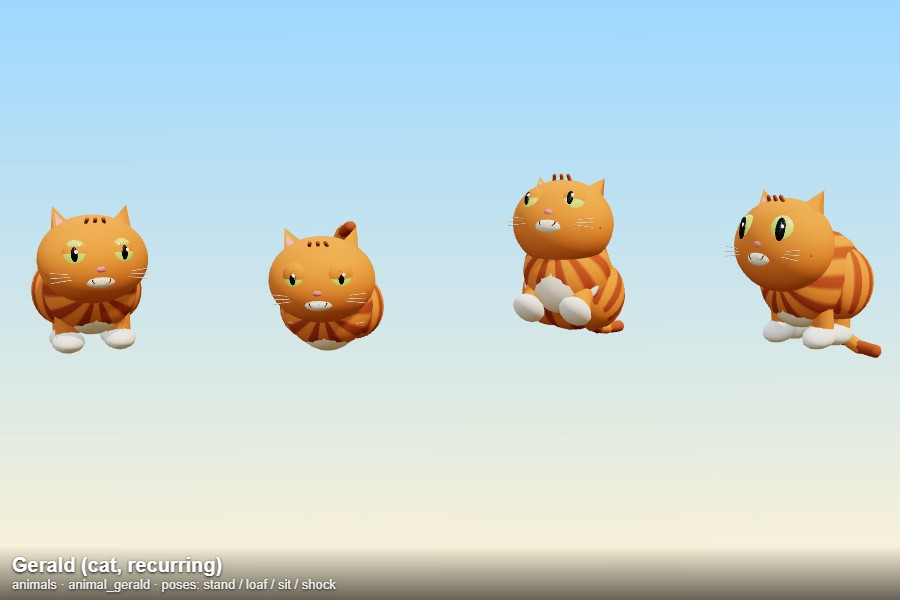
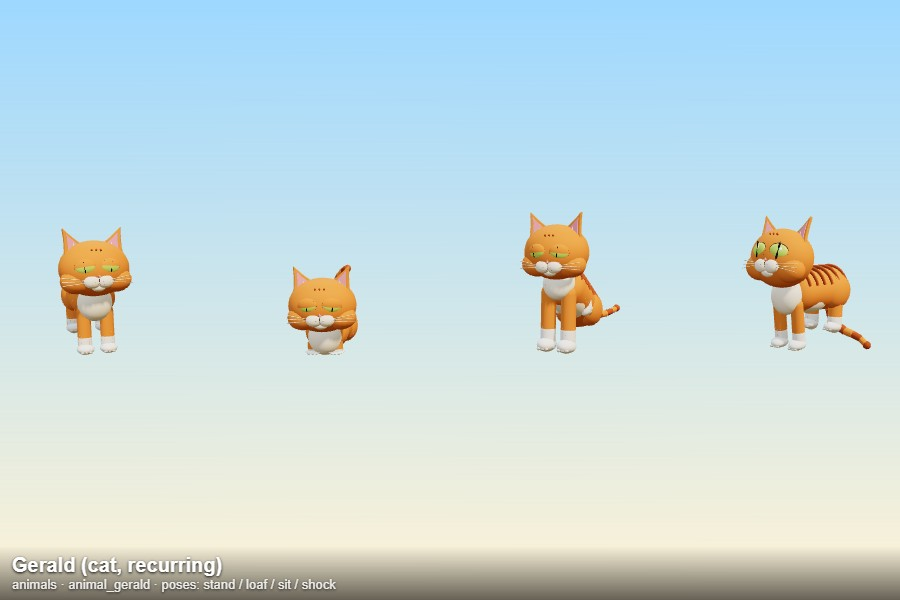
Gerald v2 model, S4 lab without the bakery, S2 recut, land-only pink map, story outline

diff --git a/series-animation-guide/assets/library/cat.js b/series-animation-guide/assets/library/cat.js
@@ -1,0 +1,116 @@
+// Gerald v2: a properly built cartoon cat (no textures; tabby stripes are geometry). Used by makeAnimal('cat', ...).
+// Same API as the other animals: root, pose(APOSES.*), face({lid, look, pupil}), head, tail, eyes. Faces +Z, auto-grounded.
+// Rig: hips (pitch for sitting) -> torso along +Z -> chest (front legs, neck -> head); back legs at the hips; tail chain.
+import * as THREE from 'three';
+import { mat, add, sph, cyl, cap, cone, tor } from './util.js';
+import { AJ, APOSES, plantA, applyAFace } from './animal.js';
+
+const tri = (w, h, d) => {
+  const sh = new THREE.Shape(); sh.moveTo(-w / 2, 0); sh.lineTo(w / 2, 0); sh.quadraticCurveTo(w * 0.12, h * 0.6, 0, h); sh.quadraticCurveTo(-w * 0.12, h * 0.6, -w / 2, 0);
+  return new THREE.ExtrudeGeometry(sh, { depth: d, bevelEnabled: true, bevelThickness: d * 0.4, bevelSize: d * 0.4, bevelSegments: 2 });
+};
+
+export function buildCat(o) {
+  const root = new THREE.Group(), pivot = new THREE.Group(); root.add(pivot);
+  const fur = mat(o.fur, { rough: 0.8 }), stripe = mat(o.stripe, { rough: 0.8 }), cream = mat(o.belly, { rough: 0.8 }), sock = mat(0xfff8ee, { rough: 0.8 });
+  const pink = mat(0xf29aa8, { rough: 0.6 }), dark = mat(0x3a1e14, { rough: 0.5 });
+  const L = 0.42, LEG = 0.19, HIPY = LEG + 0.07;
+  const hips = new THREE.Group(); hips.position.set(0, HIPY, -L / 2); pivot.add(hips);
+  // torso: smooth lathe profile laid along +Z (round rump, waist, deep chest)
+  const prof = [[0, -0.02], [0.1, 0.0], [0.135, 0.06], [0.13, 0.2], [0.125, 0.3], [0.13, 0.4], [0.1, 0.47], [0, 0.5]].map(([r, y]) => new THREE.Vector2(r, y));
+  add(hips, new THREE.LatheGeometry(prof, 28), fur, [0, 0, -0.04], [Math.PI / 2, 0, 0], [1, 1, 0.92]);
+  add(hips, sph(0.115, 18, 12), cream, [0, -0.045, 0.24], [0, 0, 0], [0.95, 0.75, 1.7]);                                // belly
+  for (const s of [-1, 1]) add(hips, sph(0.105, 18, 14), fur, [s * 0.075, -0.01, 0.06], [0, 0, 0], [0.75, 1.0, 1.15]);  // haunches
+  // tabby stripes: arcs over the back and down the flanks, and on the haunches
+  for (let i = 0; i < 6; i++) add(hips, tor(0.131, 0.011, 6, 24, Math.PI * 0.82), stripe, [0, 0, 0.02 + i * 0.075], [0, 0, Math.PI * 0.09], [1, 0.97, 0.6]).castShadow = false;
+  for (const s of [-1, 1]) for (let k = 0; k < 2; k++) add(hips, tor(0.1, 0.01, 6, 16, Math.PI * 0.5), stripe, [s * 0.04, 0.02, 0.03 + k * 0.06], [0, s * Math.PI / 2, -Math.PI * 0.05], [1, 1, 0.6]).castShadow = false;
+  // chest with white bib
+  const chest = new THREE.Group(); chest.position.set(0, 0, L); hips.add(chest);
+  add(chest, sph(0.105, 18, 14), cream, [0, -0.02, 0.035], [0, 0, 0], [0.95, 1.05, 0.8]);
+  // legs: fur leg, white sock, round paw with toe bumps
+  const leg = (parent, x, z, len, front) => {
+    const g = new THREE.Group(); g.position.set(x, front ? -0.05 : -0.02, z); parent.add(g);
+    const inner = new THREE.Group(); g.add(inner);
+    add(inner, cap(front ? 0.04 : 0.045, len * 0.8, 4, 10), fur, [0, -len * 0.5, 0]);
+    add(inner, cap(front ? 0.041 : 0.046, len * 0.22, 4, 10), sock, [0, -len * 0.88, 0]);
+    add(inner, sph(0.05, 14, 10), sock, [0, -len - 0.005, 0.02], [0, 0, 0], [1, 0.62, 1.3]);
+    for (const s of [-1, 0, 1]) add(inner, sph(0.012, 6, 4), mat(0xe8d8c8), [s * 0.022, -len - 0.018, 0.075], [0, 0, 0], [1, 0.6, 0.6]);
+    g.userData = { inner, len, front }; return g;
+  };
+  const legs = [leg(chest, 0.065, 0.02, LEG + 0.05, true), leg(chest, -0.065, 0.02, LEG + 0.05, true), leg(hips, 0.085, 0.06, LEG, false), leg(hips, -0.085, 0.06, LEG, false)];
+  // head: wide, cheek puffs, muzzle pads, chin, pink triangle nose, w-mouth, whiskers, forehead "M"
+  const neck = new THREE.Group(); neck.position.set(0, 0.07, 0.05); chest.add(neck);
+  const head = new THREE.Group(); head.position.set(0, 0.12, 0.05); neck.add(head);
+  const R = 0.17;
+  add(head, sph(R, 32, 22), fur, [0, 0, 0], [0, 0, 0], [1.16, 0.96, 0.98]);
+  for (const s of [-1, 1]) add(head, sph(R * 0.55, 16, 12), fur, [s * R * 0.62, -R * 0.38, R * 0.32], [0, 0, 0], [1, 0.8, 0.85]);
+  for (const s of [-1, 1]) add(head, sph(R * 0.27, 14, 10), cream, [s * R * 0.2, -R * 0.38, R * 0.84], [0, 0, 0], [1.05, 0.85, 0.75]);
+  add(head, sph(R * 0.22, 12, 8), cream, [0, -R * 0.58, R * 0.72], [0, 0, 0], [1.1, 0.7, 0.8]);
+  add(head, cone(R * 0.11, R * 0.12, 3), pink, [0, -R * 0.2, R * 0.98], [Math.PI / 2 + 0.25, Math.PI, 0], [1.2, 1, 0.8]);
+  add(head, cap(R * 0.012, R * 0.08, 3, 6), dark, [0, -R * 0.33, R * 0.98]);
+  for (const s of [-1, 1]) add(head, tor(R * 0.1, R * 0.014, 5, 12, Math.PI), dark, [s * R * 0.1, -R * 0.4, R * 0.95], [0, 0, Math.PI]);
+  for (const s of [-1, 1]) for (let k = 0; k < 3; k++) add(head, cyl(0.0022, 0.0012, R * 1.1, 4), mat(0xfffaf0), [s * R * 0.62, -R * 0.36 + (k - 1) * R * 0.07, R * 0.86], [0, s * 0.35, Math.PI / 2 + s * (k - 1) * 0.12]);
+  for (let i = -1; i <= 1; i++) add(head, cap(R * 0.035, R * 0.22, 4, 8), stripe, [i * R * 0.17, R * 0.62, R * 0.62], [0.95, 0, i * 0.25]);
+  for (const s of [-1, 1]) for (let k = 0; k < 2; k++) add(head, cap(R * 0.03, R * 0.2, 4, 8), stripe, [s * R * 1.0, R * 0.05 - k * R * 0.17, R * 0.25], [0, s * 0.5, Math.PI / 2]);
+  // eyes: almond green with a dark rim, slit pupil, catchlight, heavy upper lid (his signature)
+  const eyes = [];
+  for (const s of [-1, 1]) {
+    const eg = new THREE.Group(); eg.position.set(s * R * 0.4, R * 0.12, R * 0.82); eg.rotation.set(0, s * 0.32, s * -0.12); head.add(eg);
+    const er = R * 0.27;
+    add(eg, sph(er, 22, 14), mat(o.iris, { rough: 0.25 }), [0, 0, 0], [0, 0, 0], [1.25, 0.9, 0.5]);
+    add(eg, tor(er, er * 0.08, 6, 24), dark, [0, 0, 0], [0, 0, 0], [1.25, 0.9, 1]);
+    const pg = new THREE.Group(); pg.position.z = er * 0.42; eg.add(pg);
+    const pupil = add(pg, cap(er * 0.16, er * 0.9, 4, 8), mat(0x0a0a0e, { rough: 0.2 }), [0, 0, 0], [0, 0, 0], [1, 1, 0.4]);
+    add(pg, sph(er * 0.16, 8, 6), mat(0xffffff, { emissive: 0xffffff, emissiveIntensity: 0.5 }), [er * 0.3, er * 0.3, er * 0.06], [0, 0, 0], [1, 1, 0.4]);
+    const lp = new THREE.Group(); eg.add(lp);
+    add(lp, sph(er * 1.08, 22, 10, 0, Math.PI * 2, 0, Math.PI / 2), fur, [0, 0, 0], [0, 0, 0], [1.25, 0.95, 0.62]).castShadow = false;
+    eyes.push({ eg, pg, pupil, lp, s });
+  }
+  // ears: flat rounded triangles with pink insides and a cream tuft
+  const ears = [];
+  for (const s of [-1, 1]) {
+    const e = new THREE.Group(); e.position.set(s * R * 0.62, R * 0.62, -R * 0.05); e.rotation.set(-0.15, s * -0.35, s * -0.28); head.add(e); ears.push(e);
+    add(e, tri(R * 0.75, R * 0.8, R * 0.06), fur);
+    add(e, tri(R * 0.48, R * 0.56, R * 0.03), pink, [0, R * 0.06, R * 0.07]);
+    add(e, cone(R * 0.05, R * 0.18, 5), cream, [s * -R * 0.05, R * 0.2, R * 0.1], [0.2, 0, s * 0.3]);
+  }
+  // tail: tapered chain with alternating stripe rings and a dark tip
+  const tail = [], tbase = new THREE.Group(); tbase.position.set(0, 0.04, -0.03); hips.add(tbase);
+  let parent = tbase;
+  for (let i = 0; i < 9; i++) {
+    const seg = new THREE.Group(); seg.position.z = i === 0 ? 0 : -0.058; parent.add(seg);
+    add(seg, cap(0.036 - i * 0.0022, 0.05, 4, 10), i % 2 ? stripe : fur, [0, 0, -0.03], [Math.PI / 2, 0, 0]);
+    tail.push(seg); parent = seg;
+  }
+  add(tail[8], sph(0.024, 10, 8), stripe, [0, 0, -0.06]);
+  const a = { root, pivot, body: hips, hips, chest, neck, head, legs, tail, eyes, ears, S: { headR: R }, kind: 'cat', opts: o, L, HIPY };
+  root.scale.setScalar(o.scale ?? 1);
+  a.pose = (p) => { applyCatPose(a, p); if (!p.air) plantA(a); };
+  a.face = (f) => applyAFace(a, f);
+  a.pose(APOSES.stand(0)); a.face({});
+  return a;
+}
+
+function applyCatPose(a, p) {
+  const j = { ...AJ, ...p };
+  a.pivot.rotation.set(0, j.yaw, j.roll);
+  a.pivot.scale.set(1 / Math.sqrt(j.squash), j.squash, 1 / Math.sqrt(j.squash));
+  const sit = Math.min(1, Math.max(0, -j.pitch) / 0.75), tuck = j.tuck;
+  const pitch = j.pitch * (j.pitch < 0 ? 0.72 : 1);       // a cat sits with its haunches on the floor: gentler tilt, hips dropped
+  a.hips.rotation.x = pitch; a.hips.position.y = a.HIPY - sit * 0.12;
+  a.neck.rotation.x = j.neckX - pitch * 0.6;              // keeps the head level-ish when sitting
+  a.head.rotation.set(j.hx, j.hy, j.hz);
+  a.legs.forEach((g, i) => {
+    const { inner, len, front } = g.userData, swing = [j.legFL, j.legFR, j.legBL, j.legBR][i];
+    if (front) {   // stay vertical while the body pitches up, stretch to reach the floor from the raised chest
+      g.rotation.x = -pitch + swing * (1 - sit);
+      inner.scale.set(1 + sit * 0.15, (1 + (Math.sin(-pitch) * a.L - sit * 0.12) / len) * (1 - tuck * 0.75), 1 + sit * 0.15);
+    } else {       // fold forward under the haunches when sitting, tuck away when loafing
+      g.rotation.x = swing * (1 - sit) - sit * 1.25; inner.scale.set(1, 1 - tuck * 0.75 - sit * 0.35, 1);
+    }
+  });
+  a.tail.forEach((s, i) => { s.rotation.x = (i === 0 ? -j.tailBase : 0) + (i > 0 ? j.tailCurl * 0.7 : 0); s.rotation.y = Math.sin(j.tailT * 3 - i * 0.6) * j.tailWave * (i === 0 ? 0.3 : 0.8); });
+  const tw = Math.max(0, Math.sin((j._t ?? 0) * 0.83 + 1.3) - 0.93) * 12;
+  a.ears.forEach((e, i) => { e.rotation.z = (i ? -0.28 : 0.28) + (i ? -1 : 1) * tw * 0.2; });
+  a._t = j._t ?? 0;
+}

diff --git a/series-animation-guide/episode-3/src/scenes/s4.js b/series-animation-guide/episode-3/src/scenes/s4.js
@@ -1,4 +1,4 @@
-// S4 — THE ENTIRE STATE (32–44.8): the state map glows pink, Gerald at the bakery, then the lab where the hero is the test subject on the Lovometer. 65,536 -> 4,194,304.
+// S4 — THE ENTIRE STATE (32–44.8): the state map glows pink, then the lab where the hero is the test subject on the Lovometer. 65,536 -> 4,194,304.
 import { THREE, makeCharacter, PRESETS, POSES, FACES, randomPerson, rng, clamp, smooth, lerp, easeOutBack, easeOutCubic, orbit, cam, shot, pick, regroup, pops, place, V, D2R } from '../common.js';
 import { makeStage } from '../../../assets/library/stage.js';
 import { reliefMap, car, schoolBus } from '../../../assets/library/props/world.js';
@@ -18,7 +18,7 @@ export default {
     const S = { stage, scene, g: {} };
     const grp = (k) => { const g = new THREE.Group(); g.position.set(...OFF[k]); scene.add(g); S.g[k] = g; return g; };
     // ---------- relief map ----------
-    { const g = grp('map'); const rm = reliefMap({ size: 12, seed: 5 }); g.add(rm); S.rm = rm; const mesh = rm.children[0]; const col = mesh.geometry.attributes.color; S.mapBase = Float32Array.from(col.array); S.mapPos = mesh.geometry.attributes.position;
+    { const g = grp('map'); const rm = reliefMap({ size: 12, seed: 5 }); g.add(rm); S.rm = rm; const mesh = rm.children[0]; const col = mesh.geometry.attributes.color; S.mapBase = Float32Array.from(col.array); S.mapPos = mesh.geometry.attributes.position; S.land = Float32Array.from({ length: S.mapPos.count }, (_, i) => clamp((rm.mask(S.mapPos.getX(i), S.mapPos.getZ(i)) - 0.08) * 8));   // pink spreads over land only (never the sea)
       S.pins = []; const r = rng(11); const pp = S.mapPos; for (let i = 0; i < 16; i++) { let x, z, tries = 0; do { x = r.range(-5, 5); z = r.range(-5, 5); } while (rm.mask(x, z) < 0.12 && tries++ < 200); let best = 1e9, y = 0; for (let k = 0; k < pp.count; k += 3) { const d = (pp.getX(k) - x) ** 2 + (pp.getZ(k) - z) ** 2; if (d < best) { best = d; y = pp.getY(k); } } const pin = new THREE.Group(); const stem = add(pin, new THREE.CylinderGeometry(0.03, 0.03, 0.5, 6), mat(0xffffff), [0, 0.25, 0]); const h = makeHeart(0xff3f7f, 0.5, 0.5); h.position.y = 0.7; pin.add(h); pin.position.set(x, y, z); pin.userData = { x, z, h }; g.add(pin); S.pins.push(pin); }
       S.home = [-3.0, 0, 2.6]; S.mapBg = add(g, new THREE.CylinderGeometry(14, 14, 0.3, 32), mat(0x2a5a8a), [0, -0.3, 0]); }
     // ---------- marching band ----------
@@ -53,8 +53,8 @@ export default {
       { const pf = new THREE.Group(); add(pf, new THREE.CylinderGeometry(0.75, 0.82, 0.18, 32), mat(0xdfe6ee, { rough: 0.4, metal: 0.3 }), [0, 0.09, 0]); add(pf, new THREE.TorusGeometry(0.76, 0.03, 8, 40), glow(0xff5c9a, 1.4), [0, 0.18, 0], [Math.PI / 2, 0, 0]);
         for (const sx of [-1, 1]) { add(pf, new THREE.CylinderGeometry(0.03, 0.03, 1.9, 8), mat(0x9aa4b0, { metal: 0.6, rough: 0.3 }), [sx * 0.85, 0.95, -0.2]); add(pf, new THREE.SphereGeometry(0.08, 12, 8), glow(0xff5c9a, 1.2), [sx * 0.85, 1.92, -0.2]); }
         const sign = textBoard(1.3, 0.36, [{ text: 'TEST SUBJECT: THAT GUY', size: 0.095, color: '#ffffff', y: 0.52, weight: 900 }], { bg: '#ff4f8b', border: null, radius: 10 }); sign.position.set(-1.45, 1.05, -0.1); sign.rotation.y = 0.25; pf.add(sign);
-        pf.position.set(0, 0, -2.3); g.add(pf); }
-      S.labCat = makeAnimal('cat', ANIMALS.gerald); g.add(S.labCat.root); S.labCat.root.position.set(5.4, 0.99 + 0.3, -4.4); S.labCat.root.scale.setScalar(0.7); S.labCat.root.rotation.y = -0.4; S.lab.anchors.rat.root.position.set(5.6, 0.99 + 0.4, -4.6); }
+        pf.position.set(0, 0, -0.6); g.add(pf); }
+      S.labCat = makeAnimal('cat', ANIMALS.gerald); g.add(S.labCat.root); S.labCat.root.position.set(-1.25, 0.96, -2.05); /* on the bench right behind the test platform: his love does not register */ S.labCat.root.scale.setScalar(1.0); S.labCat.root.rotation.y = -0.25; S.lab.anchors.rat.root.position.set(5.6, 0.99 + 0.4, -4.6); }
     // ---------- shots ----------
     const O = (k, v) => v.map((n, i) => n + OFF[k][i]);
     const oc = (k, p, t, fov) => cam(O(k, p), O(k, t), fov);
@@ -78,8 +78,8 @@ export default {
       { ...shot(44.4, 44.8, oc('lab', [0.6, 2.2, 4.6], [1.0, 2.1, 1.0], 32)), g: 'lab' },                                                       // chief "Bombo."
     ];
     // slower edit: ~2 s shots, each holding the camera of the gag / voiced line it covers
-    S.shots = regroup(S.shots, [[32.0, 34.4, 32.0], [34.4, 36.8, 35.2], [36.8, 39.2, 38.4], [39.2, 41.2, 40.0], [41.2, 43.2, 41.2], [43.2, 44.8, 44.4]]);
-    S.shots[4] = { ...S.shots[4], a: oc('lab', [0.2, 1.75, 2.4], [-0.3, 1.45, -2.3], 44), b: oc('lab', [0.1, 1.7, 1.9], [-0.3, 1.45, -2.3], 42), g: 'lab' };   // hero on the test platform, Lovometer behind him (narration)
+    S.shots = regroup(S.shots, [[32.0, 34.4, 32.0], [34.4, 36.8, 38.4], [36.8, 39.2, 38.4], [39.2, 41.2, 40.0], [41.2, 43.2, 43.6], [43.2, 44.8, 44.4]]);
+    S.shots[2] = { ...S.shots[2], a: oc('lab', [0.3, 1.8, 3.6], [-0.2, 1.55, -0.6], 44), b: oc('lab', [0.2, 1.75, 3.1], [-0.2, 1.55, -0.6], 42), g: 'lab' };   // hero on the test platform, Lovometer behind him (narration)
     return S;
   },
   frame(t, S, ctx) {
@@ -89,7 +89,7 @@ export default {
     if (key === 'map') {
       // pink spreads from home across the state
       const R = 1.6 + (t - 32) * 2.2, col = S.rm.children[0].geometry.attributes.color, p = S.mapPos;
-      for (let i = 0; i < p.count; i++) { const d = Math.hypot(p.getX(i) - S.home[0], p.getZ(i) - S.home[2]); const k = clamp((R - d) / 0.8) * 0.85; const j = i * 3; col.array[j] = lerp(S.mapBase[j], 1.0, k); col.array[j + 1] = lerp(S.mapBase[j + 1], 0.32, k); col.array[j + 2] = lerp(S.mapBase[j + 2], 0.58, k); }
+      for (let i = 0; i < p.count; i++) { const d = Math.hypot(p.getX(i) - S.home[0], p.getZ(i) - S.home[2]); const k = clamp((R - d) / 0.8) * 0.85 * S.land[i]; const j = i * 3; col.array[j] = lerp(S.mapBase[j], 1.0, k); col.array[j + 1] = lerp(S.mapBase[j + 1], 0.32, k); col.array[j + 2] = lerp(S.mapBase[j + 2], 0.58, k); }
       col.needsUpdate = true;
       S.pins.forEach((pin) => { const d = Math.hypot(pin.userData.x - S.home[0], pin.userData.z - S.home[2]); const k = easeOutBack(clamp((R - d) / 0.6)); pin.scale.setScalar(Math.max(0.0001, k)); pin.userData.h.rotation.y = t * 2; });
       r.banner = t < 33.6 ? { text: 'THE ENTIRE STATE', y: 1180, t0: 32.0, rot: -0.03 } : t >= 38.0 && t < 38.4 ? { text: 'ALL OF IT', y: 1180, t0: 38.0 } : null;
@@ -111,7 +111,7 @@ export default {
     if (key === 'lab') {
       const level = t < 38.4 ? 0.1 : t < 40.0 ? lerp(0.1, 1.0, clamp((t - 38.4) / 1.6)) : 1.2;
       S.lab.update(t, { level, snapK: Math.max(0, t - 40.0) });
-      place(S.heroLab, 0, 0.18, -2.3, 0);
+      place(S.heroLab, 0, 0.18, -0.6, 0);
       S.heroLab.pose(t < 40.0 ? { ...POSES.idle(t), aRs: 0.5 + Math.max(0, Math.sin(t * 2.2)) * 1.2, aRe: 0.8, hR: 'open', hz: 0.06 } : { ...POSES.shock(t), lean: -0.1 });
       S.heroLab.face(t < 40.0 ? { ...FACES.happy, smile: 0.5 } : { ...FACES.shock, open: 0.5 });
       place(S.assist, -1.6, 0, 1.2, 0.2); place(S.chief, 1.2, 0, 1.0, -0.2); place(S.sciB, -4.4, 0, 0.6, 0.5);

diff --git a/series-animation-guide/assets/library/animal.js b/series-animation-guide/assets/library/animal.js
@@ -2,6 +2,7 @@
 //   const g = makeAnimal('cat', ANIMALS.gerald); g.pose(APOSES.loaf(t)); g.face({lid:0.45});
 import * as THREE from 'three';
 import { mat, add, sph, cyl, cap, cone, tor, canvasTex, C } from './util.js';
+import { buildCat } from './cat.js';
 
 const SPEC = {
   cat:    { bodyR: 0.27, bodyLen: 0.2, headR: 0.27, legH: 0.2, legR: 0.07, tail: { n: 6, len: 0.13, r: 0.05 }, ear: 'tri' },
@@ -27,6 +28,7 @@ function furTexture(o) {
 
 export function makeAnimal(kind = 'cat', o = {}) {
   const sp = SPEC[kind]; o = { ...ANIMALS[kind === 'cat' ? 'gerald' : kind], ...o };
+  if (kind === 'cat') return buildCat(o);   // Gerald v2 (cat.js)
   const S = sp, root = new THREE.Group(), pivot = new THREE.Group(); root.add(pivot);
   const fur = mat(o.fur, { rough: 0.85 }), furMap = mat(0xffffff, { rough: 0.85, map: furTexture(o) }), belly = mat(o.belly ?? o.fur, { rough: 0.85 });
   const body = new THREE.Group(); body.position.y = S.legH + S.bodyR * 0.8; pivot.add(body);
@@ -108,7 +110,7 @@ export function makeAnimal(kind = 'cat', o = {}) {
 
 // Drop the animal so its lowest point rests on y=0 of its root (fixes hovering in sit/loaf/sleep on fences, seats, registers).
 const _box = new THREE.Box3(), _v = new THREE.Vector3();
-function plantA(a) {
+export function plantA(a) {
   a.pivot.position.y = 0; a.root.updateMatrixWorld(true);
   _box.makeEmpty(); const tailRoot = a.tail[0]?.parent; a.pivot.traverse((o) => { let q = o; while (q && q !== a.pivot) { if (q === tailRoot) return; q = q.parent; } if (o.isMesh && o.visible) { o.geometry.boundingBox ?? o.geometry.computeBoundingBox(); _box.union(o.geometry.boundingBox.clone().applyMatrix4(o.matrixWorld)); } });
   a.root.getWorldPosition(_v); const sc = a.root.getWorldScale(new THREE.Vector3()).y;
@@ -116,7 +118,7 @@ function plantA(a) {
 }
 // Secondary motion layered on every pose: breathing, slow head drift, tail sway, ear twitches, blinks. Pure functions of t.
 const life = (t, k = 1) => ({ squash: 1 + Math.sin(t * 2.4) * 0.012 * k, hy: Math.sin(t * 0.37) * 0.12 * k + Math.sin(t * 0.91) * 0.04 * k, hz: Math.sin(t * 0.53) * 0.05 * k, tailWave: 0.22 * k, tailT: t, _t: t });
-const AJ = { bob: 0, pitch: 0, hx: 0, hy: 0, hz: 0, neckX: 0, legFL: 0, legFR: 0, legBL: 0, legBR: 0, tuck: 0, tailBase: 0.6, tailCurl: 0.15, tailWave: 0, tailT: 0, squash: 1, yaw: 0, roll: 0 };
+export const AJ = { bob: 0, pitch: 0, hx: 0, hy: 0, hz: 0, neckX: 0, legFL: 0, legFR: 0, legBL: 0, legBR: 0, tuck: 0, tailBase: 0.6, tailCurl: 0.15, tailWave: 0, tailT: 0, squash: 1, yaw: 0, roll: 0 };
 function applyAPose(a, p) {
   const j = { ...AJ, ...p }, S = a.S;
   a.pivot.position.y = j.bob; a.pivot.rotation.y = j.yaw;
@@ -147,7 +149,7 @@ export const APOSES = {
 // every pose gets the life layer (pose values win for keys they set, squash/hy multiply in)
 for (const [k, f] of Object.entries(APOSES)) APOSES[k] = (t = 0, ...rest) => { const p = f(t, ...rest), l = life(t, k === 'sleep' ? 0.4 : 1); return { ...l, ...p, squash: (p.squash ?? 1) * l.squash, hy: (p.hy ?? 0) + l.hy, hz: (p.hz ?? 0) + l.hz, tailWave: Math.max(p.tailWave ?? 0, l.tailWave), tailT: p.tailT ?? t, _t: t }; };
 const AFD = { lid: 0.0, look: [0, 0], pupil: 1, open: 0 };
-function applyAFace(a, f) {
+export function applyAFace(a, f) {
   const o = { ...AFD, lid: a.opts.lid ?? 0, ...f }, R = a.S.headR;
   const bp = ((a._t ?? 0) + (a.opts.seed ?? 0) * 0.7) % 3.7; if (f.blink !== false && bp < 0.16) o.lid = Math.max(o.lid, 1 - Math.abs(bp - 0.08) / 0.08 * 0.6);   // slow, lazy blink
   for (const e of a.eyes) { e.lp.rotation.x = -Math.PI / 2 + o.lid * Math.PI * 1.02; e.pg.position.x = o.look[0] * R * 0.1; e.pg.position.y = o.look[1] * R * 0.1; e.pupil.scale.x = (a.kind === 'cat' ? 0.55 : 1) * o.pupil; e.pupil.scale.y = (a.kind === 'cat' ? 1.15 : 1) * o.pupil; }

diff --git a/series-animation-guide/episode-3/src/scenes/s1.js b/series-animation-guide/episode-3/src/scenes/s1.js
@@ -66,7 +66,7 @@ export default {
     ];
     // slower edit: ~2 s shots, each holding the camera of the gag / voiced line it covers
     S.shots = regroup(S.shots, [[0, 2.0, 1.2], [2.0, 4.0, 0.4], [4.0, 5.6, 4.8], [5.6, 7.2, 5.6], [7.2, 9.6, 8.0]]);
-    S.shots[2] = { ...S.shots[2], a: cam([-4.9, 1.45, 1.75], [-7.5, 1.5, 1.6], 40), b: cam([-5.2, 1.45, 1.7], [-7.5, 1.5, 1.6], 38) };   // Gerald on the fence: camera just above the rail so he is clearly sitting on it
+    S.shots[2] = { ...S.shots[2], a: cam([-5.0, 1.75, 1.7], [-7.5, 1.32, 1.6], 34), b: cam([-5.3, 1.72, 1.65], [-7.5, 1.34, 1.6], 32) };   // Gerald on the fence: camera just above the rail so he is clearly sitting on it
     return S;
   },
   frame(t, S, ctx) {

diff --git a/series-animation-guide/episode-3/src/scenes/s2.js b/series-animation-guide/episode-3/src/scenes/s2.js
@@ -74,7 +74,7 @@ export default {
       shot(20.0, 20.8, cam([hh(20.0)[0] - 9, 5.2, 5.2], [hh(20.4)[0] - 1, 1.0, 1.0], 56), cam([hh(20.8)[0] - 9, 4.8, 5.0], [hh(20.8)[0] - 1, 1.0, 1.0], 56)), // crowd chases
     ];
     // slower edit: ~2 s shots, each holding the camera of the gag / voiced line it covers
-    S.shots = regroup(S.shots, [[9.6, 12.0, 10.4], [12.0, 15.6, 13.2], [15.6, 18.4, 17.2], [18.4, 20.8, 18.4]]);
+    S.shots = regroup(S.shots, [[9.6, 11.6, 10.4], [11.6, 13.2, 11.4], [13.2, 15.2, 13.6], [15.2, 16.8, 17.2], [16.8, 18.8, 18.4], [18.8, 20.8, 20.0]]);
     return S;
   },
   frame(t, S, ctx) {

diff --git a/series-animation-guide/episode-3/HANDOFF.md b/series-animation-guide/episode-3/HANDOFF.md
@@ -34,3 +34,12 @@ Tag figures (≈8.3B population, ≈117B people ever lived) were not web-checked
 * **Pacing:** `regroup()` in `src/common.js` merges the old 133 cuts into 47 (about 2 s each); each held shot reuses the camera of the gag or voiced line it covers. Cut lists sit right after each scene's `S.shots`.
 * **Theatre rebuilt** (raked rows, aisles, seated audience facing the stage). Skyline and plazas remodelled with geometry. **Rule: never add textures.**
 * Audio not rebuilt yet: the preview plays v1's soundtrack (timeline unchanged, so it still lines up).
+
+## The story, scene by scene (every scene = the next, bigger ring of people who love the hero)
+1. **Garden BBQ (0–9.6 s, 1 → 16):** grandma falls for him, then the family, then the neighbours over the fences. He is confused. Gerald, on the fence, is not.
+2. **The street (9.6–20.8 s, 32 → 1,024):** every house on the street comes out with hearts; grandma is lost; the crowd grows and he runs.
+3. **The theatre (20.8–32 s, 2,048 → 32,768):** he ducks into a theatre, wanders onto the stage mid magic act, and the whole audience and the judges fall for him (golden buzzer). Gerald gives it a four from the front row.
+4. **The state and the lab (32–44.8 s, 65,536 → 4.2 M):** the map shows the love spreading over the state; scientists put him on a Lovometer test platform; the meter breaks. Gerald, beside him, does not register.
+5. **Cloud Nine (44.8–57.6 s, 8.4 M → 268 M):** the whole country ties heart balloons to him and he floats up to cloud nine.
+6. **The world (57.6–75.2 s, 537 M → 137 B):** his face on every billboard on Earth, the planet turns pink, he runs out of living people and the ghosts join in.
+7. **Finale (75.2–90 s):** silence, one hug that ripples across the planet and out into space; back home, Gerald still says no.
